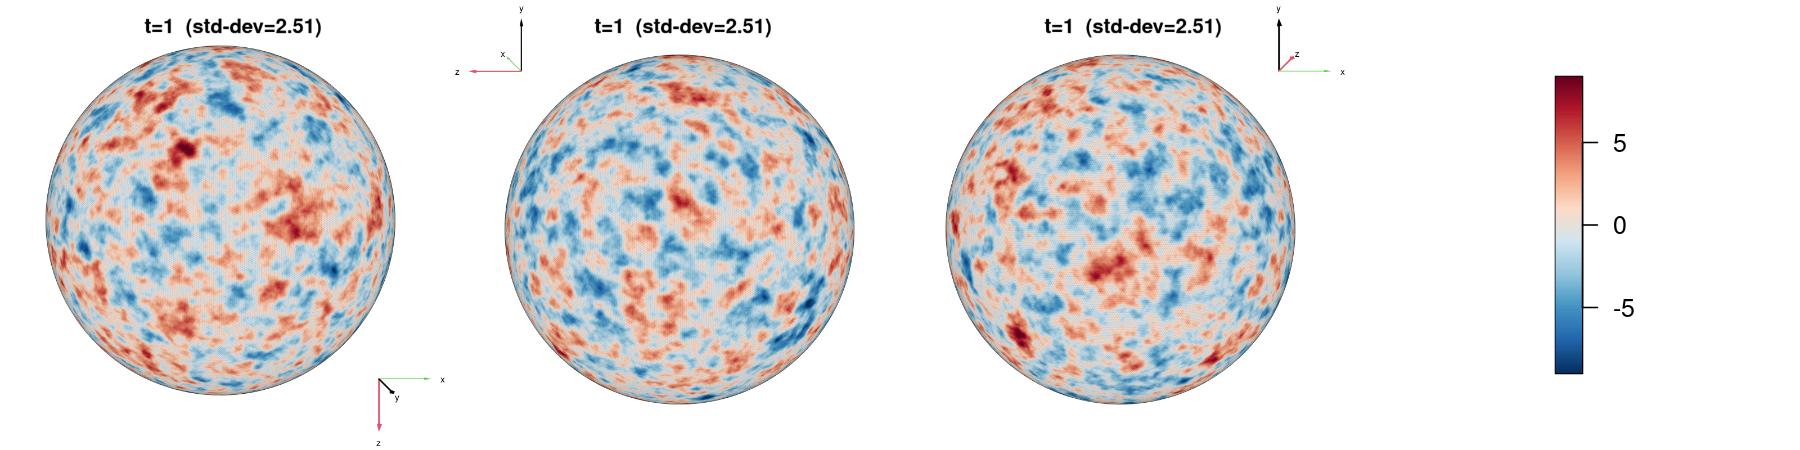
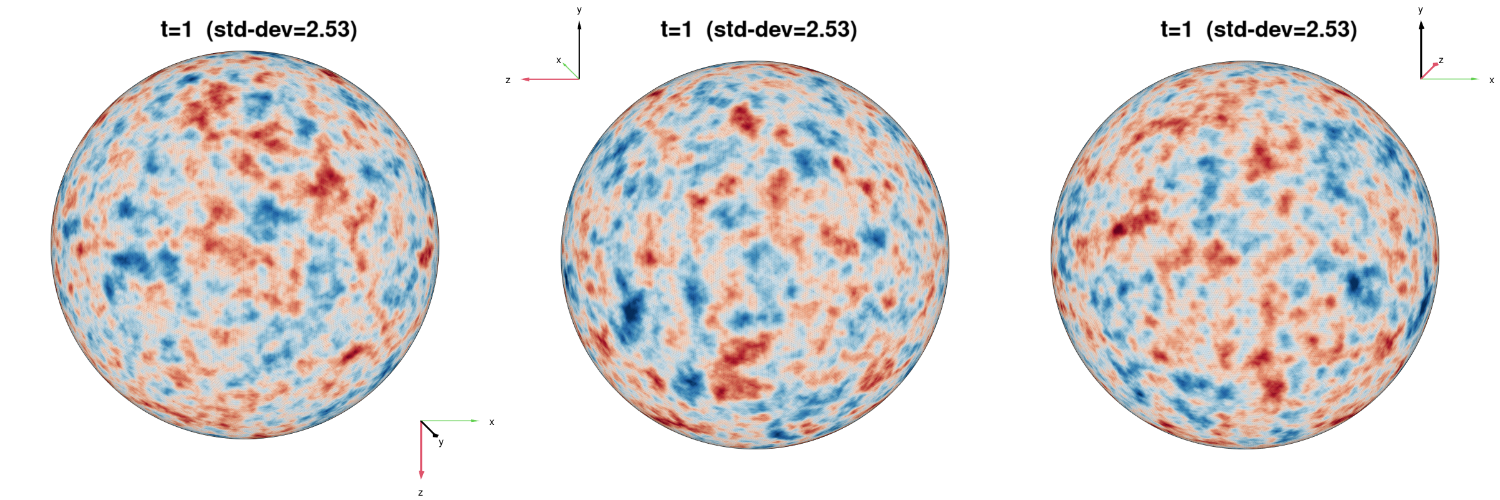
add image psl sg

diff --git a/_site/sitemap/index.html b/_site/sitemap/index.html
@@ -1106,7 +1106,7 @@
     
 
         
-         <p class="page__date"><strong><i class="fa fa-fw fa-calendar" aria-hidden="true"></i> Published:</strong> <time datetime="2023-04-12T14:48:09+02:00">April 12, 2023</time></p>
+         <p class="page__date"><strong><i class="fa fa-fw fa-calendar" aria-hidden="true"></i> Published:</strong> <time datetime="2023-04-12T15:41:53+02:00">April 12, 2023</time></p>
         
 
     
@@ -1133,7 +1133,7 @@
     
 
         
-         <p class="page__date"><strong><i class="fa fa-fw fa-calendar" aria-hidden="true"></i> Published:</strong> <time datetime="2023-04-12T14:48:09+02:00">April 12, 2023</time></p>
+         <p class="page__date"><strong><i class="fa fa-fw fa-calendar" aria-hidden="true"></i> Published:</strong> <time datetime="2023-04-12T15:41:53+02:00">April 12, 2023</time></p>
         
 
     

diff --git a/_site/collection-archive/index.html b/_site/collection-archive/index.html
@@ -285,7 +285,7 @@
     
 
         
-         <p class="page__date"><strong><i class="fa fa-fw fa-calendar" aria-hidden="true"></i> Published:</strong> <time datetime="2023-04-12T14:48:09+02:00">April 12, 2023</time></p>
+         <p class="page__date"><strong><i class="fa fa-fw fa-calendar" aria-hidden="true"></i> Published:</strong> <time datetime="2023-04-12T15:41:53+02:00">April 12, 2023</time></p>
         
 
     
@@ -321,7 +321,7 @@
     
 
         
-         <p class="page__date"><strong><i class="fa fa-fw fa-calendar" aria-hidden="true"></i> Published:</strong> <time datetime="2023-04-12T14:48:09+02:00">April 12, 2023</time></p>
+         <p class="page__date"><strong><i class="fa fa-fw fa-calendar" aria-hidden="true"></i> Published:</strong> <time datetime="2023-04-12T15:41:53+02:00">April 12, 2023</time></p>
         
 
     

diff --git a/_site/portfolio/index.html b/_site/portfolio/index.html
@@ -276,7 +276,7 @@
     
 
         
-         <p class="page__date"><strong><i class="fa fa-fw fa-calendar" aria-hidden="true"></i> Published:</strong> <time datetime="2023-04-12T14:48:09+02:00">April 12, 2023</time></p>
+         <p class="page__date"><strong><i class="fa fa-fw fa-calendar" aria-hidden="true"></i> Published:</strong> <time datetime="2023-04-12T15:41:53+02:00">April 12, 2023</time></p>
         
 
     
@@ -310,7 +310,7 @@
     
 
         
-         <p class="page__date"><strong><i class="fa fa-fw fa-calendar" aria-hidden="true"></i> Published:</strong> <time datetime="2023-04-12T14:48:09+02:00">April 12, 2023</time></p>
+         <p class="page__date"><strong><i class="fa fa-fw fa-calendar" aria-hidden="true"></i> Published:</strong> <time datetime="2023-04-12T15:41:53+02:00">April 12, 2023</time></p>
         
 
     

diff --git a/_site/portfolio/portfolio-1/index.html b/_site/portfolio/portfolio-1/index.html
@@ -52,7 +52,7 @@
 
 
   <meta property="og:type" content="article">
-  <meta property="article:published_time" content="2023-04-12T14:48:09+02:00">
+  <meta property="article:published_time" content="2023-04-12T15:41:53+02:00">
 
 
 
@@ -270,7 +270,7 @@
         
         
         
-          <p class="page__date"><strong><i class="fa fa-fw fa-calendar" aria-hidden="true"></i> Published:</strong> <time datetime="2023-04-12T14:48:09+02:00">April 12, 2023</time></p>
+          <p class="page__date"><strong><i class="fa fa-fw fa-calendar" aria-hidden="true"></i> Published:</strong> <time datetime="2023-04-12T15:41:53+02:00">April 12, 2023</time></p>
         
         
              

diff --git a/_site/portfolio/portfolio-2/index.html b/_site/portfolio/portfolio-2/index.html
@@ -52,7 +52,7 @@
 
 
   <meta property="og:type" content="article">
-  <meta property="article:published_time" content="2023-04-12T14:48:09+02:00">
+  <meta property="article:published_time" content="2023-04-12T15:41:53+02:00">
 
 
 
@@ -270,7 +270,7 @@
         
         
         
-          <p class="page__date"><strong><i class="fa fa-fw fa-calendar" aria-hidden="true"></i> Published:</strong> <time datetime="2023-04-12T14:48:09+02:00">April 12, 2023</time></p>
+          <p class="page__date"><strong><i class="fa fa-fw fa-calendar" aria-hidden="true"></i> Published:</strong> <time datetime="2023-04-12T15:41:53+02:00">April 12, 2023</time></p>
         
         
              

diff --git a/_pages/PSL-StatingGrant.md b/_pages/PSL-StatingGrant.md
@@ -38,7 +38,8 @@ figcaption {
 
 <div style="text-align:center;">
 <a id="diff-sphere"></a>
-<img src="/images/PSL/diff-sphere.gif" style="float:center;" alt="Diffusion SPDE"> 
+<img src="/images/PSL/diff-sphere.gif" style="float:center;" alt="Diffusion SPDE on the sphere"><br>
+<img src="/images/PSL/legend_diff-sphere.png" style="float:center;height:80px">  
   <figcaption> Fig. 2: Simulation a spatio-temporal diffusion SPDE on the sphere represented from three different viewpoints on the surface (t represents the time step, std-dev the standard deviation of the field value across the surface). </figcaption>
 </div>
   
@@ -52,11 +53,14 @@ figcaption {
 
 <div style="text-align:center;">
 <a id="adv-diff-brain"></a>
-<img src="/images/PSL/advPot-brain.png" style="float:center;height:400px" alt="Advection potential on a cortical surface"> 
+<img src="/images/PSL/advPot-brain.png" style="float:center;height:400px" alt="Advection potential on a cortical surface"><br>
+<img src="/images/PSL/legend_adv-brain.png" style="float:center;height:80px"> 
 <p style="font-size:90%;color:black;font-family:Academicons"> (A) Advection potential function $\phi$.</p>
-<img src="/images/PSL/adv-diff-brain-nostab.gif" style="float:center;height:400px" alt="Advection-Diffusion SPDE on a cortical surface (no stabilization)"> 
+<img src="/images/PSL/adv-diff-brain-nostab.gif" style="float:center;height:400px" alt="Advection-Diffusion SPDE on a cortical surface (no stabilization)"><br>
+<img src="/images/PSL/legend_adv-brain.png" style="float:center;height:80px">  
 <p style="font-size:90%;color:black;font-family:Academicons"> (B) Numerical solution of the SPDE, without stabilization.</p>
-<img src="/images/PSL/adv-diff-brain-stab.gif" style="float:center;height:400px" alt="Advection-Diffusion SPDE on a cortical surface"> 
+<img src="/images/PSL/adv-diff-brain-stab.gif" style="float:center;height:400px" alt="Advection-Diffusion SPDE on a cortical surface"><br>
+<img src="/images/PSL/legend_adv-brain.png" style="float:center;height:80px">  
 <p style="font-size:90%;color:black;font-family:Academicons"> (C) Numerical solution of the SPDE, eith stabilization.</p>
   <figcaption> Fig. 3: Simulation of the spatio-temporal advection-diffusion SPDE on a cortical surface, represented from three different viewpoints on the surface (t represents the time step, std-dev the standard deviation of the field values across the surface). </figcaption>
 </div>
@@ -73,9 +77,11 @@ figcaption {
 
 <div style="text-align:center;">
 <a id="adv-diff-sphere"></a>
-<img src="/images/PSL/advPot-sphere.png" style="float:center;" alt="Advection potential on the sphere"> 
+<img src="/images/PSL/advPot-sphere.png" style="float:center;" alt="Advection potential on the sphere"><br>
+<img src="/images/PSL/legend_adv-sphere.png" style="float:center;height:80px">  
 <p style="font-size:90%;color:black;font-family:Academicons"> (A) Advection potential function $\phi$.</p>
-<img src="/images/PSL/adv-diff-sphere.gif" style="float:center;" alt="Advection-Diffusion SPDE on the sphere"> 
+<img src="/images/PSL/adv-diff-sphere.gif" style="float:center;" alt="Advection-Diffusion SPDE on the sphere"><br>
+<img src="/images/PSL/legend_adv-sphere.png" style="float:center;height:80px">  
 <p style="font-size:90%;color:black;font-family:Academicons"> (B) Numerical solution of the SPDE.</p>
   <figcaption> Fig. 3: Simulation of the spatio-temporal advection-diffusion SPDE on the sphere, represented from three different viewpoints on the surface (t represents the time step, std-dev the standard deviation of the field values across the surface). </figcaption>
 </div>
